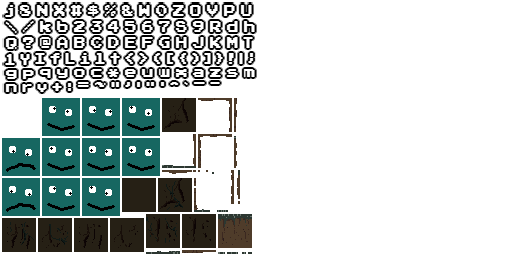
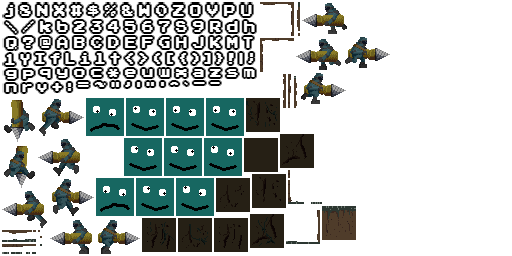
New player anims

Changed region(s): [[0.0, 0.0, 0.7812, 1.0]]

diff --git a/Assets/Scripts/Player.cs b/Assets/Scripts/Player.cs
@@ -29,15 +29,15 @@ public class Player : BaseGameObject
 
     public Player()
     {
-        sprite = new FAnimatedSprite("character");
-        sprite.addAnimation(new FAnimation("leftIDLE", new int[] { 1, 2 }, 100, true));
-        sprite.addAnimation(new FAnimation("rightIDLE", new int[] { 1, 2 }, 100, true));
-        sprite.addAnimation(new FAnimation("leftRUN", new int[] { 3, 4 }, 100, true));
-        sprite.addAnimation(new FAnimation("rightRUN", new int[] { 5, 6 }, 100, true));
-        sprite.addAnimation(new FAnimation("leftJUMP", new int[] { 7, 8 }, 100, true));
-        sprite.addAnimation(new FAnimation("rightJUMP", new int[] { 7, 8 }, 100, true));
-        sprite.addAnimation(new FAnimation("leftFALL", new int[] { 9, 10 }, 100, true));
-        sprite.addAnimation(new FAnimation("rightFALL", new int[] { 9, 10 }, 100, true));
+        sprite = new FAnimatedSprite("player");
+        sprite.addAnimation(new FAnimation("leftIDLE", new int[] { 5 }, 100, true));
+        sprite.addAnimation(new FAnimation("rightIDLE", new int[] { 1 }, 100, true));
+        sprite.addAnimation(new FAnimation("leftRUN", new int[] { 5, 6, 7, 8 }, 100, true));
+        sprite.addAnimation(new FAnimation("rightRUN", new int[] { 1,2,3,4 }, 100, true));
+        sprite.addAnimation(new FAnimation("leftJUMP", new int[] { 11 }, 100, true));
+        sprite.addAnimation(new FAnimation("rightJUMP", new int[] { 9 }, 100, true));
+        sprite.addAnimation(new FAnimation("leftFALL", new int[] { 12 }, 100, true));
+        sprite.addAnimation(new FAnimation("rightFALL", new int[] { 10 }, 100, true));
         sprite.play("leftIDLE");
         this.AddChild(sprite);
     }
@@ -149,7 +149,7 @@ public class Player : BaseGameObject
             if (world.collision.getFrameNum(newTileX, topTileY) != 0 ||
                 world.collision.getFrameNum(newTileX, bottomTileY) != 0)
             {
-                this.x = (newTileX + 1) * world.map.tileWidth + world.map.tileWidth / 2;
+                this.x = (newTileX + 1) * world.map.tileWidth + world.map.tileWidth/ 2;
                 break;
             }
         }
@@ -169,7 +169,7 @@ public class Player : BaseGameObject
             if (world.collision.getFrameNum(rightTileX, newTileY) != 0 ||
                 world.collision.getFrameNum(leftTileX, newTileY) != 0)
             {
-                this.y = -(newTileY + 1) * world.map.tileHeight - world.map.tileHeight / 2;
+                this.y = -(newTileY + 1) * world.map.tileHeight - world.map.tileWidth / 2;
                 break;
             }
         }
@@ -184,12 +184,12 @@ public class Player : BaseGameObject
 
             int rightTileX = Mathf.FloorToInt((this.x + world.map.tileWidth / 2.1f) / world.map.tileWidth);
             int leftTileX = Mathf.FloorToInt((this.x - world.map.tileWidth / 2.1f) / world.map.tileWidth);
-            int newTileY = -Mathf.CeilToInt((this.y - world.map.tileHeight / 2) / world.map.tileHeight);
+            int newTileY = -Mathf.CeilToInt((this.y - sprite.height / 2) / world.map.tileHeight);
 
             if (world.collision.getFrameNum(rightTileX, newTileY) != 0 ||
                 world.collision.getFrameNum(leftTileX, newTileY) != 0)
             {
-                this.y = -(newTileY) * world.map.tileHeight + world.map.tileHeight / 2;
+                this.y = -(newTileY) * world.map.tileHeight + sprite.height / 2;
                 this.grounded = true;
                 this.yVel = 0;
                 currentAnimState = AnimState.IDLE;
